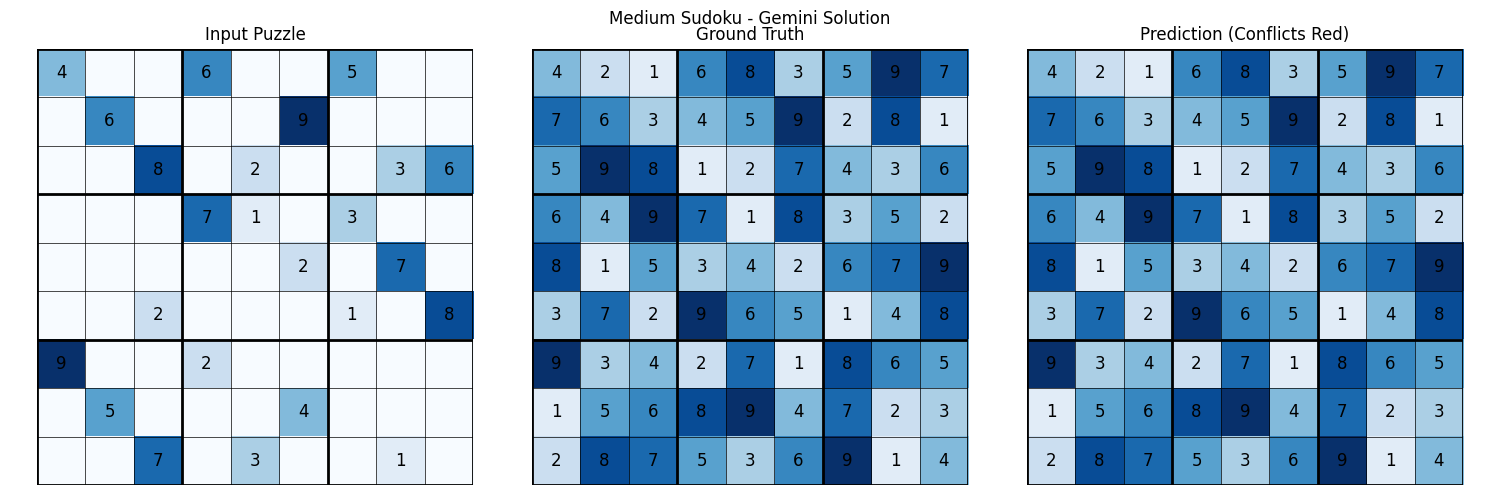
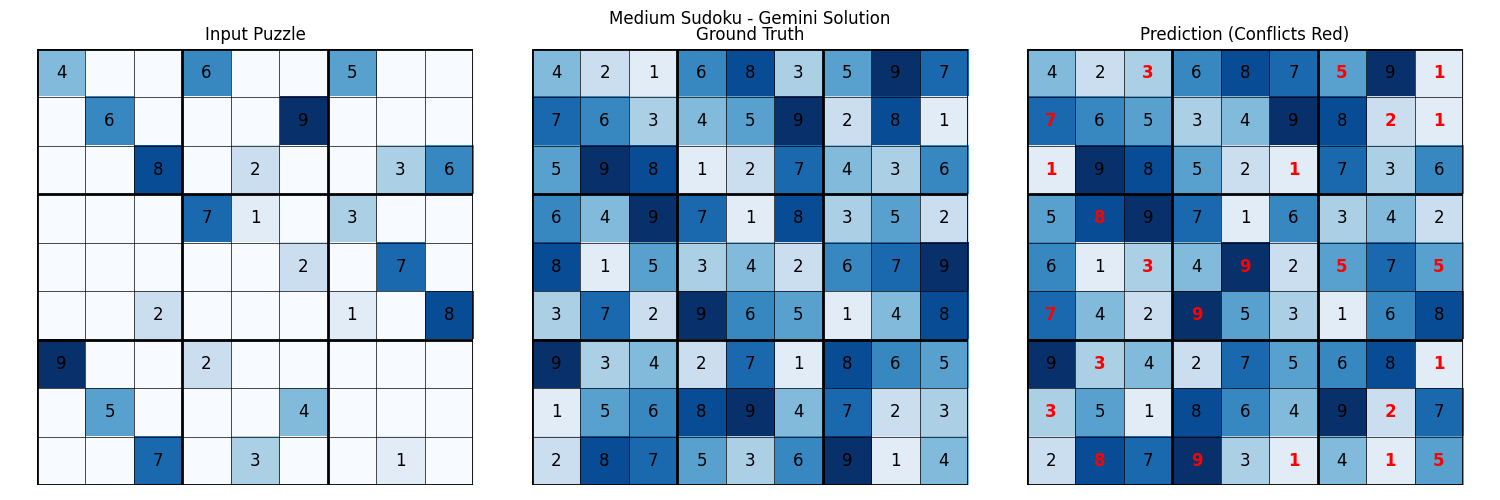
add plots

Changed region(s): [[0.6747, 0.09, 0.9813, 0.99], [0.7053, 0.9, 0.736, 0.93]]

diff --git a/lab6_trm/eval_llm.py b/lab6_trm/eval_llm.py
@@ -91,7 +91,9 @@ medium_sudoku = (
 medium_sudoku_solution = (
     "421683597763459281598127436649718352815342679372965148934271865156894723287536914"
 )
-medium_gemini_solution = ""
+medium_gemini_solution = (
+    "423687591765349821198521736589716342613492575742953168934275681351864927287931415"
+)
 
 medium_sample = {
     "puzzle_tensor": parse_sudoku_string(medium_sudoku),
